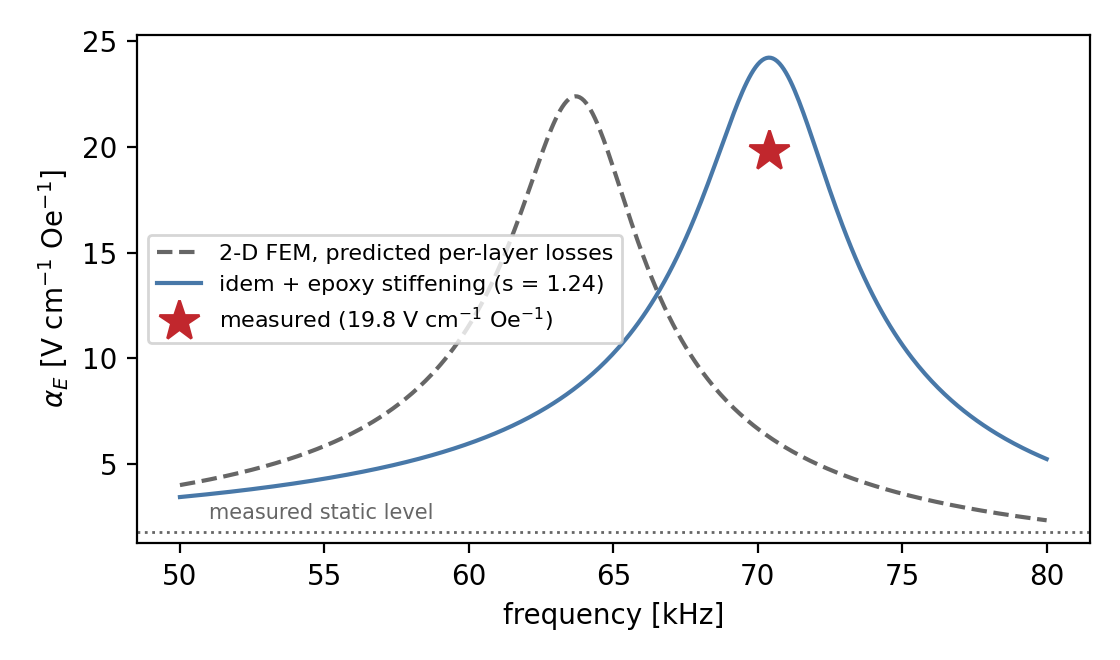
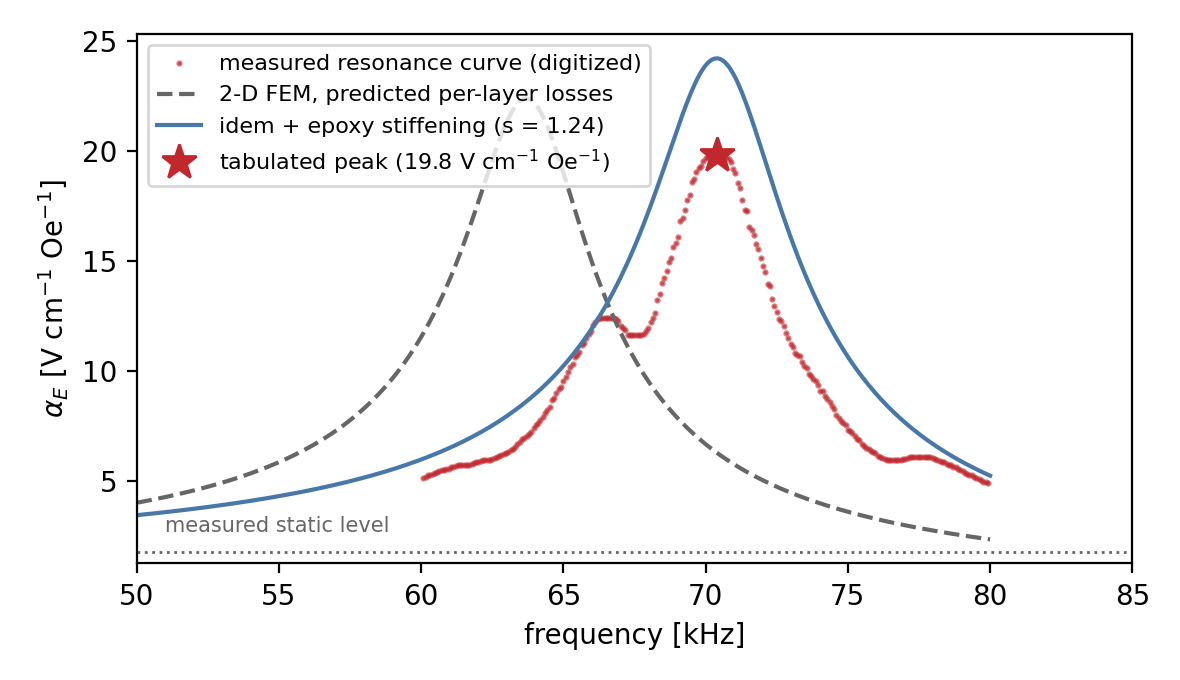
Measured resonance curve overlay: bandwidth Q = 19.8 vs nominal 16.4
Adds the digitized measured resonance curve of the reference bilayer
(rescaled to the tabulated peak) and its provenance script; figure 6 now
compares the measured curve with the predicted per-layer-loss FEM response.
Verification suite: 22 tests.

diff --git a/make_measured_curve.py b/make_measured_curve.py
@@ -1,0 +1,40 @@
+# -*- coding: utf-8 -*-
+"""
+Provenance de malleron_measured_curve.npz : fenêtre 60-80 kHz de la courbe
+de résonance MESURÉE du bilame PZT-5H/Terfenol-D, digitalisée depuis la
+figure 9 de Malleron et al., Microelectronics J. 88 (2019) (extraction
+vectorielle PyMuPDF, cf. studies/me3d_structure/compare_malleron_curves.py),
+remise à l'échelle du pic tabulé de la thèse (19,8 V/cm.Oe — la figure
+publiée porte l'échelle décalée d'une décimale, cf. manuscrit §2).
+Le Q de bande passante à -3 dB de cette courbe vaut 19,8.
+"""
+import numpy as np
+from pathlib import Path
+
+SRC = Path(__file__).resolve().parents[1] / "me3d_structure" / \
+    "kevin_digitized" / "measured_curves.npz"
+
+
+def main():
+    if not SRC.exists():
+        print("source digitalisée absente (dépôt public) : le fichier "
+              "malleron_measured_curve.npz distribué fait foi")
+        return
+    d = np.load(SRC)
+    f, a = d["f_kHz"], d["alpha_f"] * 0.1     # échelle du pic tabulé (19,8)
+    m = (f > 60) & (f < 80)
+    fs, av = f[m], a[m]
+    o = np.argsort(fs)
+    fs, av = fs[o], av[o]
+    i = int(np.argmax(av))
+    half = av[i] / np.sqrt(2)
+    idx = np.where(av > half)[0]
+    Qbw = fs[i] / (fs[idx[-1]] - fs[idx[0]])
+    np.savez(Path(__file__).parent / "malleron_measured_curve.npz",
+             f_kHz=fs, alpha=av)
+    print(f"pic {av[i]:.2f} V/cmOe @ {fs[i]:.2f} kHz ; "
+          f"Q(-3 dB) = {Qbw:.1f} ; fichier régénéré")
+
+
+if __name__ == "__main__":
+    main()

diff --git a/make_figures_en.py b/make_figures_en.py
@@ -187,16 +187,20 @@ def main():
     hE, hQ, hP, hS, s_ep = cc.main()
     sys.stdout = old
     ms = qm.SAMPLES[qm.REF]["meas"]
-    fig, ax = plt.subplots(figsize=(5.6, 3.3))
+    fig, ax = plt.subplots(figsize=(5.9, 3.4))
+    mc = np.load("malleron_measured_curve.npz")
+    ax.plot(mc["f_kHz"], mc["alpha"], ".", color=RED, ms=2.5, alpha=0.6,
+            label="measured resonance curve (digitized)")
     ax.plot(hP["freqs"] / 1e3, hP["alpha"], "--", color=GREY,
             label="2-D FEM, predicted per-layer losses")
     ax.plot(hS["freqs"] / 1e3, hS["alpha"], "-", color=BLUE,
             label=f"idem + epoxy stiffening (s = {s_ep:.2f})")
-    ax.plot(ms["f_r"] / 1e3, ms["a_res"], "*", color=RED, ms=15,
-            label=f"measured ({ms['a_res']} V cm$^{{-1}}$ Oe$^{{-1}}$)")
+    ax.plot(ms["f_r"] / 1e3, ms["a_res"], "*", color=RED, ms=13,
+            label=f"tabulated peak ({ms['a_res']} V cm$^{{-1}}$ Oe$^{{-1}}$)")
     ax.axhline(ms["a_stat"], color=GREY, ls=":", lw=1.0)
-    ax.text(51, ms["a_stat"] * 1.35, "measured static level", fontsize=7.5,
+    ax.text(51, ms["a_stat"] * 1.5, "measured static level", fontsize=7.5,
             color=GREY)
+    ax.set_xlim(50, 85)
     ax.set_xlabel("frequency [kHz]")
     ax.set_ylabel("$\\alpha_E$ [V cm$^{-1}$ Oe$^{-1}$]")
     ax.legend(fontsize=8)

diff --git a/verify_qfactor.py b/verify_qfactor.py
@@ -200,6 +200,19 @@ def main():
         print("[SKIP] tests 19-21 (modèle disque : scipy/core non disponibles "
               "dans ce dépôt)")
 
+    # 22. courbe de résonance MESURÉE (digitalisée) : Q de bande passante
+    #     -3 dB dans l'encadrement a priori et à ±30 % du nominal
+    mc = np.load("malleron_measured_curve.npz")
+    fm, am = mc["f_kHz"], mc["alpha"]
+    i = int(np.argmax(am))
+    idxm = np.where(am > am[i] / np.sqrt(2))[0]
+    Qbw_meas = fm[i] / (fm[idxm[-1]] - fm[idxm[0]])
+    check("courbe mesurée : Q(-3 dB) dans l'encadrement et à ±30 % du nominal",
+          blo["Q"] <= Qbw_meas <= bhi["Q"]
+          and abs(Qbw_meas / bud["Q"] - 1) < 0.30,
+          f"Q_bw mesuré = {Qbw_meas:.1f} vs nominal {bud['Q']:.1f}, "
+          f"encadrement [{blo['Q']:.0f};{bhi['Q']:.0f}]")
+
     n_ok = sum(ok for _, ok in TESTS)
     print(f"\n{n_ok}/{len(TESTS)} PASS")
     return n_ok == len(TESTS)
